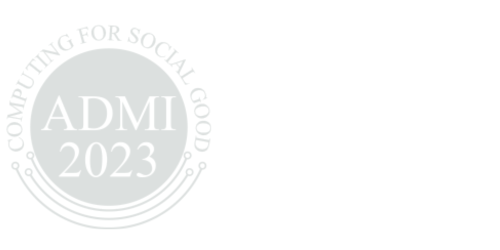
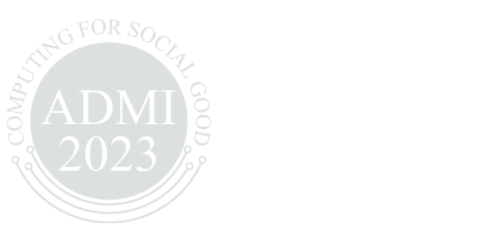
aligned header image

diff --git a/_includes/about.html b/_includes/about.html
@@ -2,7 +2,7 @@
   
   
 
-  <img src="{{ '/assets/imgs/HackHPCatADMI23Header.png' | prepend: site.baseurl}} "  style="float: left;" \>
+  <img src="{{ '/assets/imgs/HackHPCat ADMI23Header-black.png' | prepend: site.baseurl}} "  style="float: left;" \>
   <p style="text-align: justify; color: black;"> Join us virtually from <strong>June 26th - 30th, 2023</strong> for <em>HackHPC@ADMI23</em>, a team-based hackathon for undergraduates, faculty, staff, and technical specialists. As a part of the <strong><a href="https://admiusa.org/admi2023/index.php" target="_blank" style="color: black; text-decoration: none;">Association of Computer Science Departments at Minority Institutions (ADMI) Symposium on Computing at Minority Institutions</a></strong>, 
     
     the event is devoted to computing issues relevant to minority students, education, and institutions. The symposium aims to explore collaborations between major research institutions, industry, and minority institutions.

diff --git a/_site/index.html b/_site/index.html
@@ -60,7 +60,7 @@
   
   
 
-  <img src="/admi23/assets/imgs/HackHPCatADMI23Header.png "  style="float: left;" \>
+  <img src="/admi23/assets/imgs/HackHPCat ADMI23Header-black.png "  style="float: left;" \>
   <p style="text-align: justify; color: black;"> Join us virtually from <strong>June 26th - 30th, 2023</strong> for <em>HackHPC@ADMI23</em>, a team-based hackathon for undergraduates, faculty, staff, and technical specialists. As a part of the <strong><a href="https://admiusa.org/admi2023/index.php" target="_blank" style="color: black; text-decoration: none;">Association of Computer Science Departments at Minority Institutions (ADMI) Symposium on Computing at Minority Institutions</a></strong>, 
     
     the event is devoted to computing issues relevant to minority students, education, and institutions. The symposium aims to explore collaborations between major research institutions, industry, and minority institutions.
